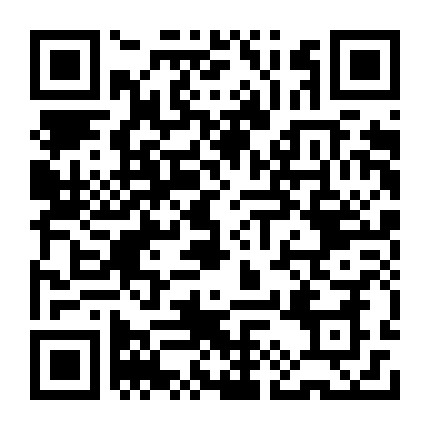
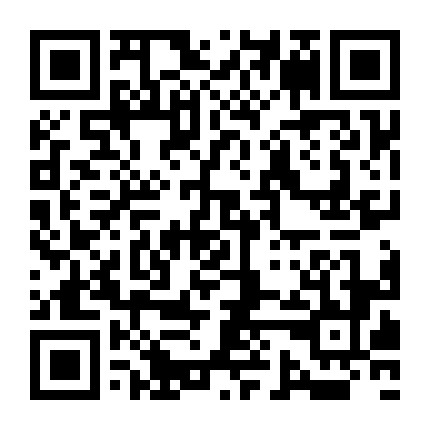
1

diff --git a/resources/views/weixin/codeshow.blade.php b/resources/views/weixin/codeshow.blade.php
@@ -1,0 +1,90 @@
+<!DOCTYPE html PUBLIC "-//W3C//DTD XHTML 1.0 Transitional//EN" "http://www.w3.org/TR/xhtml1/DTD/xhtml1-transitional.dtd">
+<html xmlns="http://www.w3.org/1999/xhtml">
+<head>
+    <meta http-equiv="Content-Type" content="text/html; charset=utf-8" />
+    <title>话题管理-有点</title>
+    <link rel="stylesheet" type="text/css" href="../css/css.css" />
+    <script type="text/javascript" src="../js/jquery.min.js"></script>
+    <!-- <script type="text/javascript" src="js/page.js" ></script> -->
+</head>
+
+<body>
+<div id="pageAll">
+    <div class="pageTop">
+        <div class="page">
+            <img src="../img/coin02.png" /><span><a href="#">首页</a>&nbsp;-&nbsp;<a
+                        href="#">公共管理</a>&nbsp;-</span>&nbsp;意见管理
+        </div>
+    </div>
+
+    <div class="page">
+        <!-- topic页面样式 -->
+        <div class="topic">
+            <div class="conform">
+                <form>
+
+                </form>
+            </div>
+            <!-- topic表格 显示 -->
+            <div class="conShow">
+                <table border="1" cellspacing="0" cellpadding="0">
+                    <tr>
+                        <td width="200px" class="tdColor tdC">id</td>
+                        <td width="250px" class="tdColor">openid</td>
+                        <td width="250px" class="tdColor">type</td>
+
+                    </tr>
+                    @foreach($res as $v)
+                        <tr height="30px">
+                            <td>
+                                {{$v['id']}}
+                            </td>
+                            <td>
+                                {{$v['openid']}}
+                            </td>
+                            <td>
+                                {{$v['type']}}
+                            </td>
+
+                        </tr>
+                    @endforeach
+                </table>
+                <div class="paging">此处是分页</div>
+            </div>
+            <!-- topic 表格 显示 end-->
+        </div>
+        <!-- topic页面样式end -->
+    </div>
+
+</div>
+
+
+{{--<!-- 删除弹出框 -->
+<div class="banDel">
+    <div class="delete">
+        <div class="close">
+            <a><img src="../img/shanchu.png" /></a>
+        </div>
+        <p class="delP1">你确定要删除此条记录吗？</p>
+        <p class="delP2">
+            <a href="/labeldel" class="ok yes">确定</a><a class="ok no">取消</a>
+        </p>
+    </div>
+</div>
+<!-- 删除弹出框  end-->
+</body>
+
+<script type="text/javascript">
+    // 广告弹出框
+    $(".delban").click(function(){
+        $(".banDel").show();
+    });
+    $(".close").click(function(){
+        $(".banDel").hide();
+    });
+    $(".no").click(function(){
+        $(".banDel").hide();
+    });
+    // 广告弹出框 end
+</script>--}}
+</html>

diff --git a/app/Http/Controllers/Weixin/WxController.php b/app/Http/Controllers/Weixin/WxController.php
@@ -230,7 +230,7 @@ class WxController extends Controller
             "action_name" => "QR_SCENE",
             "action_info" => array(
                 "scene" =>array(
-                    "scene_id" => 1111,
+                    "scene_id" => 1,
                 )
             )
         );
@@ -245,6 +245,20 @@ class WxController extends Controller
         file_put_contents("./1.jpg",$res);
         //print_r($res);
 
+    }
+    //登陆扫码
+    public function codelogin()
+    {
+        $redis = new \redis;
+        $redis->connect("127.0.0.1", 6379);//exit;
+        $like = "listkey";
+        $data = $redis->lrange($like, 0, -1);
+        $res = array();
+        foreach ($data as $k => $v) {
+            $arr = $redis->hGetAll($v);
+            array_push($res, $arr);
+        }
+        return view('weixin.showlogin', ['res' => $res]);
     }
 
 }
